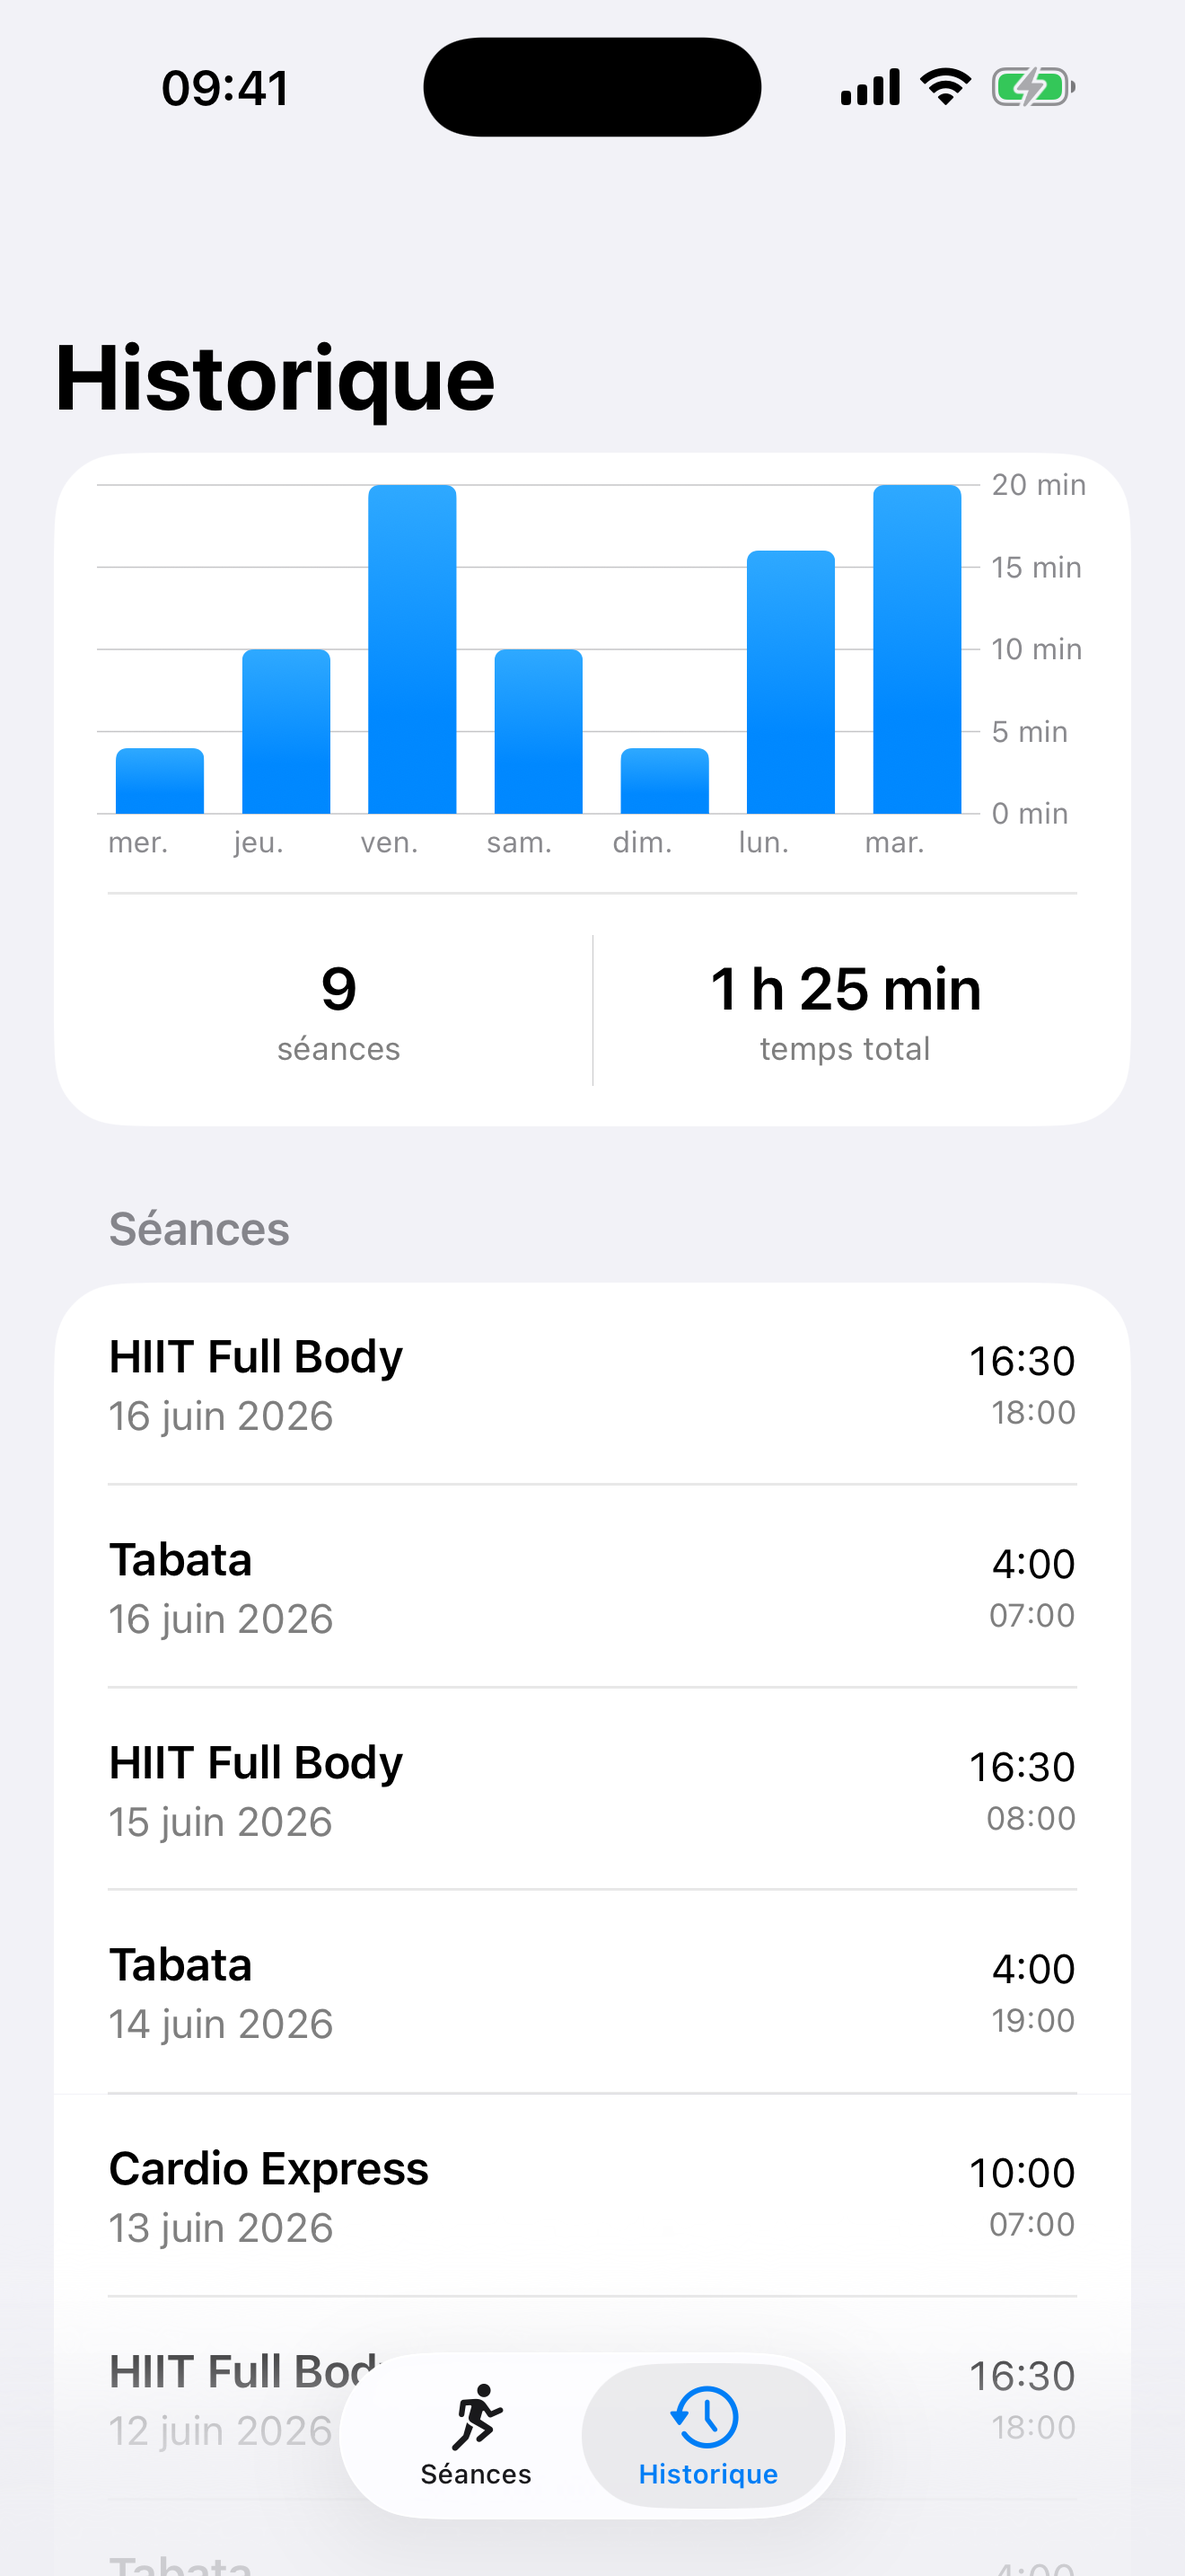
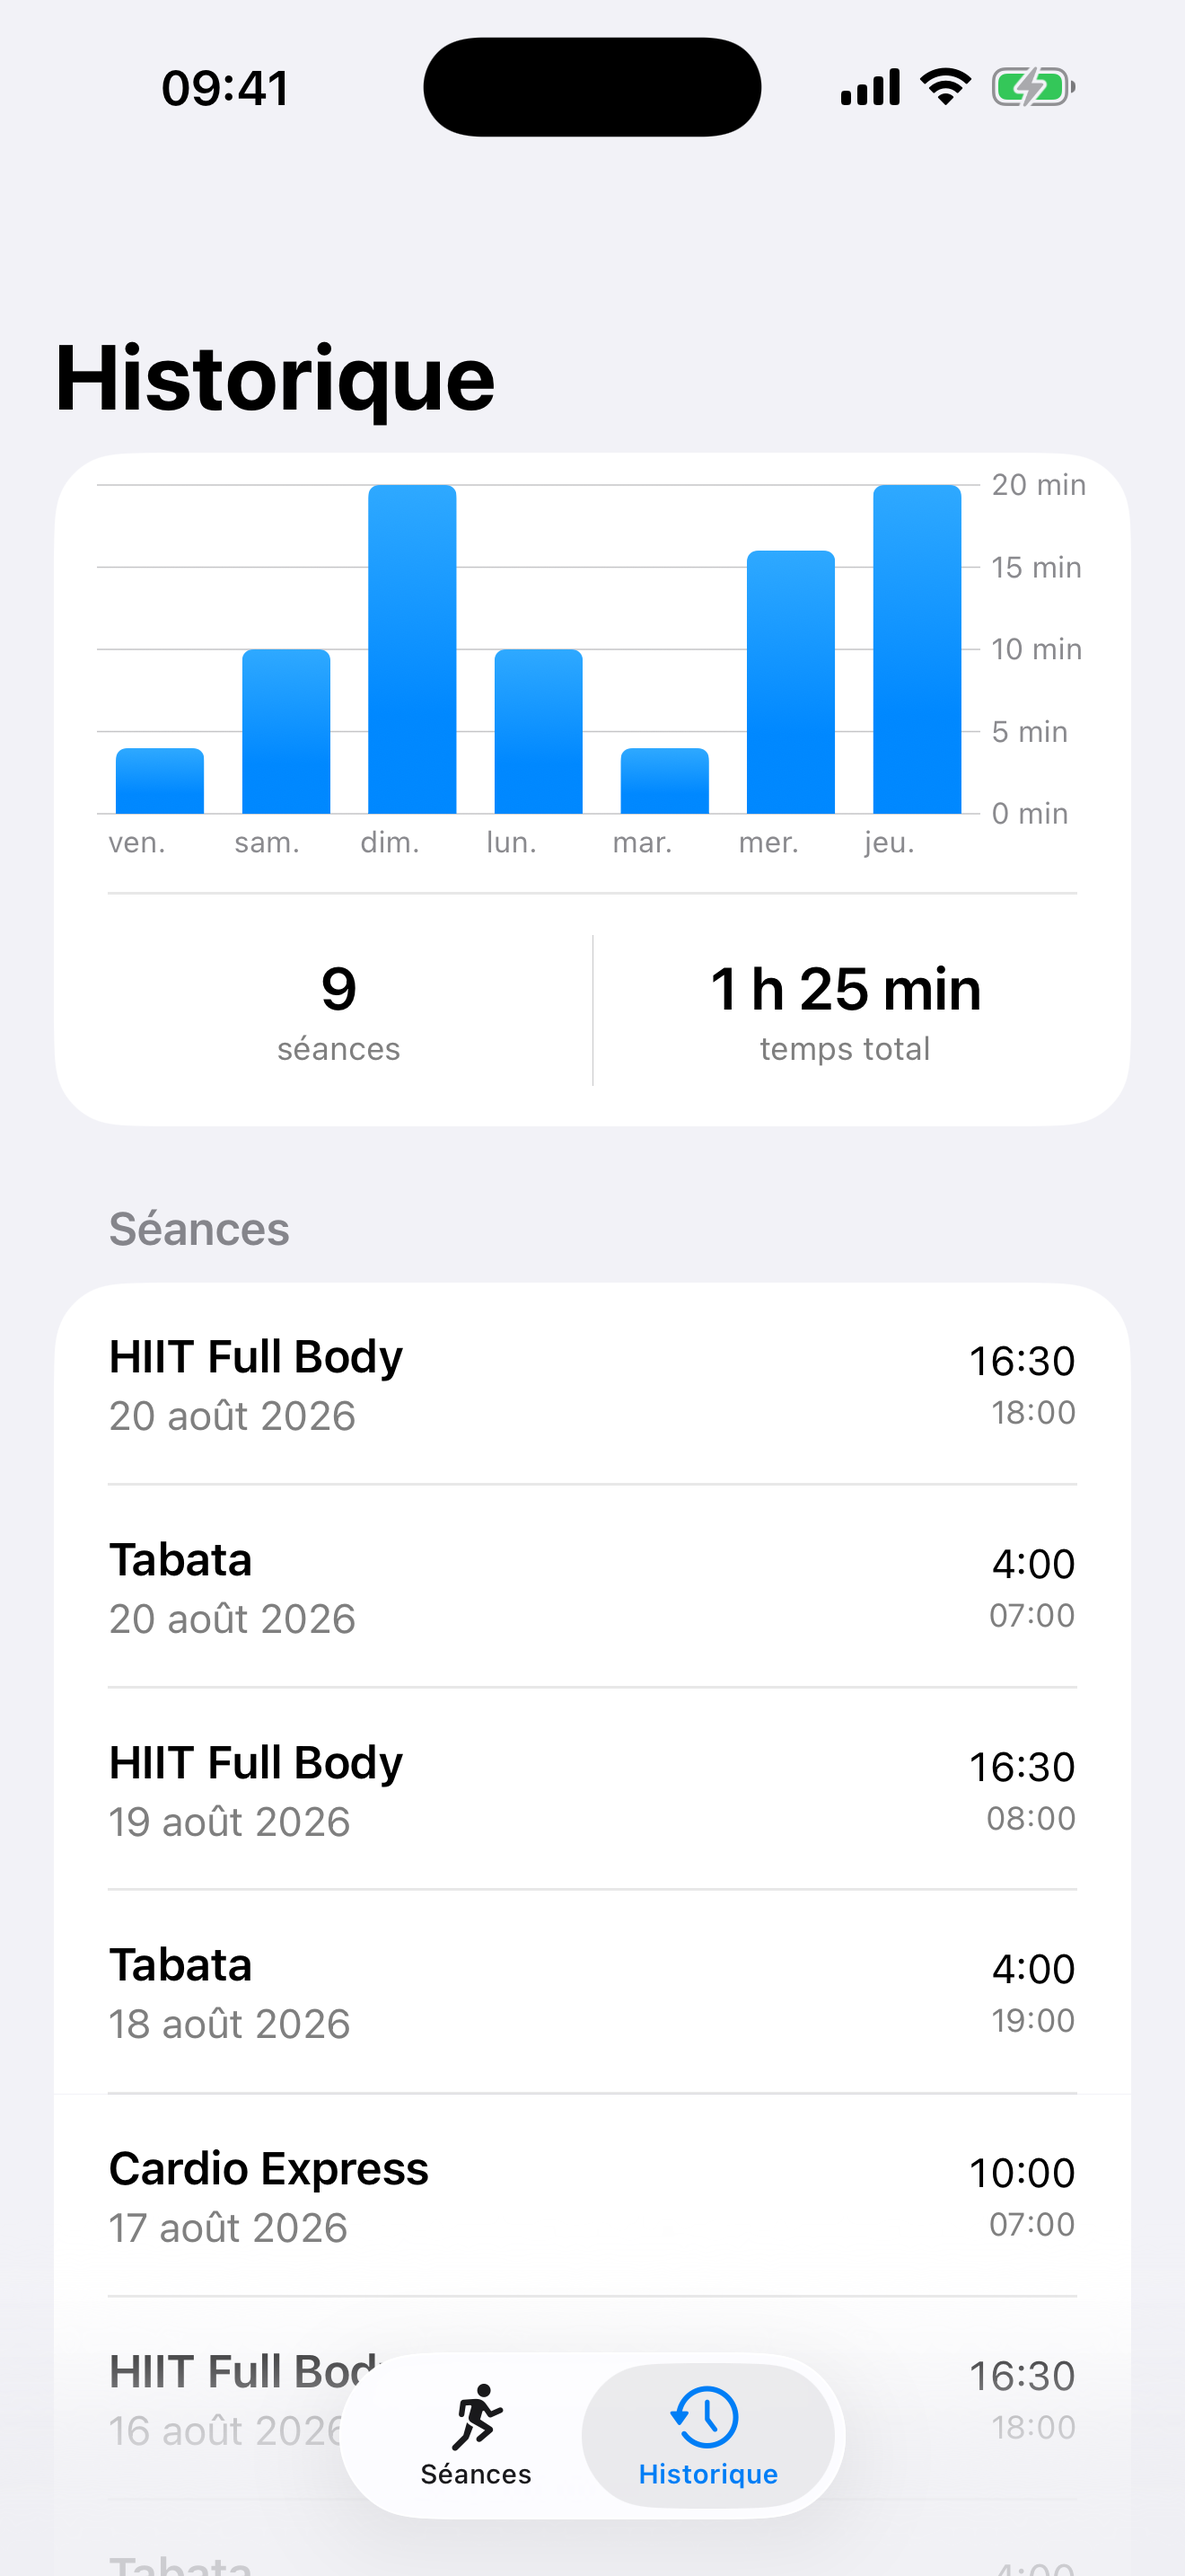
Screenshots v1.1, notes de version et outillage App Store
- scripts/appstore/ : scripts de capture, build Release et GitHub Pages,
  + config des 4 écrans à capturer.
- Captures régénérées en 1320×2868 : l'éditeur montre la nouvelle ligne
  Préparation, et le deep-link -screenshotRun saute désormais la phase de
  préparation pour capturer une phase d'effort.
- fastlane/metadata/{fr-FR,en-US}/release_notes.txt : texte « Nouveautés »
  de la 1.1.

Claude-Session: https://claude.ai/code/session_01JCHaKFikHjj4ZFPJYJjQry

diff --git a/HIIT974/RunView.swift b/HIIT974/RunView.swift
@@ -65,9 +65,11 @@ struct RunView: View {
             let e = engine
             e.audioCue.configure()
             #if DEBUG
-            // Démarre automatiquement pour la capture d'écran de la séance en cours.
+            // Démarre automatiquement pour la capture d'écran de la séance en cours,
+            // en sautant la préparation : c'est une phase d'effort qu'on veut montrer.
             if ProcessInfo.processInfo.arguments.contains("-screenshotRun") {
                 e.start()
+                if e.currentStep?.phase == .prepare { e.skip() }
             }
             #endif
         }
